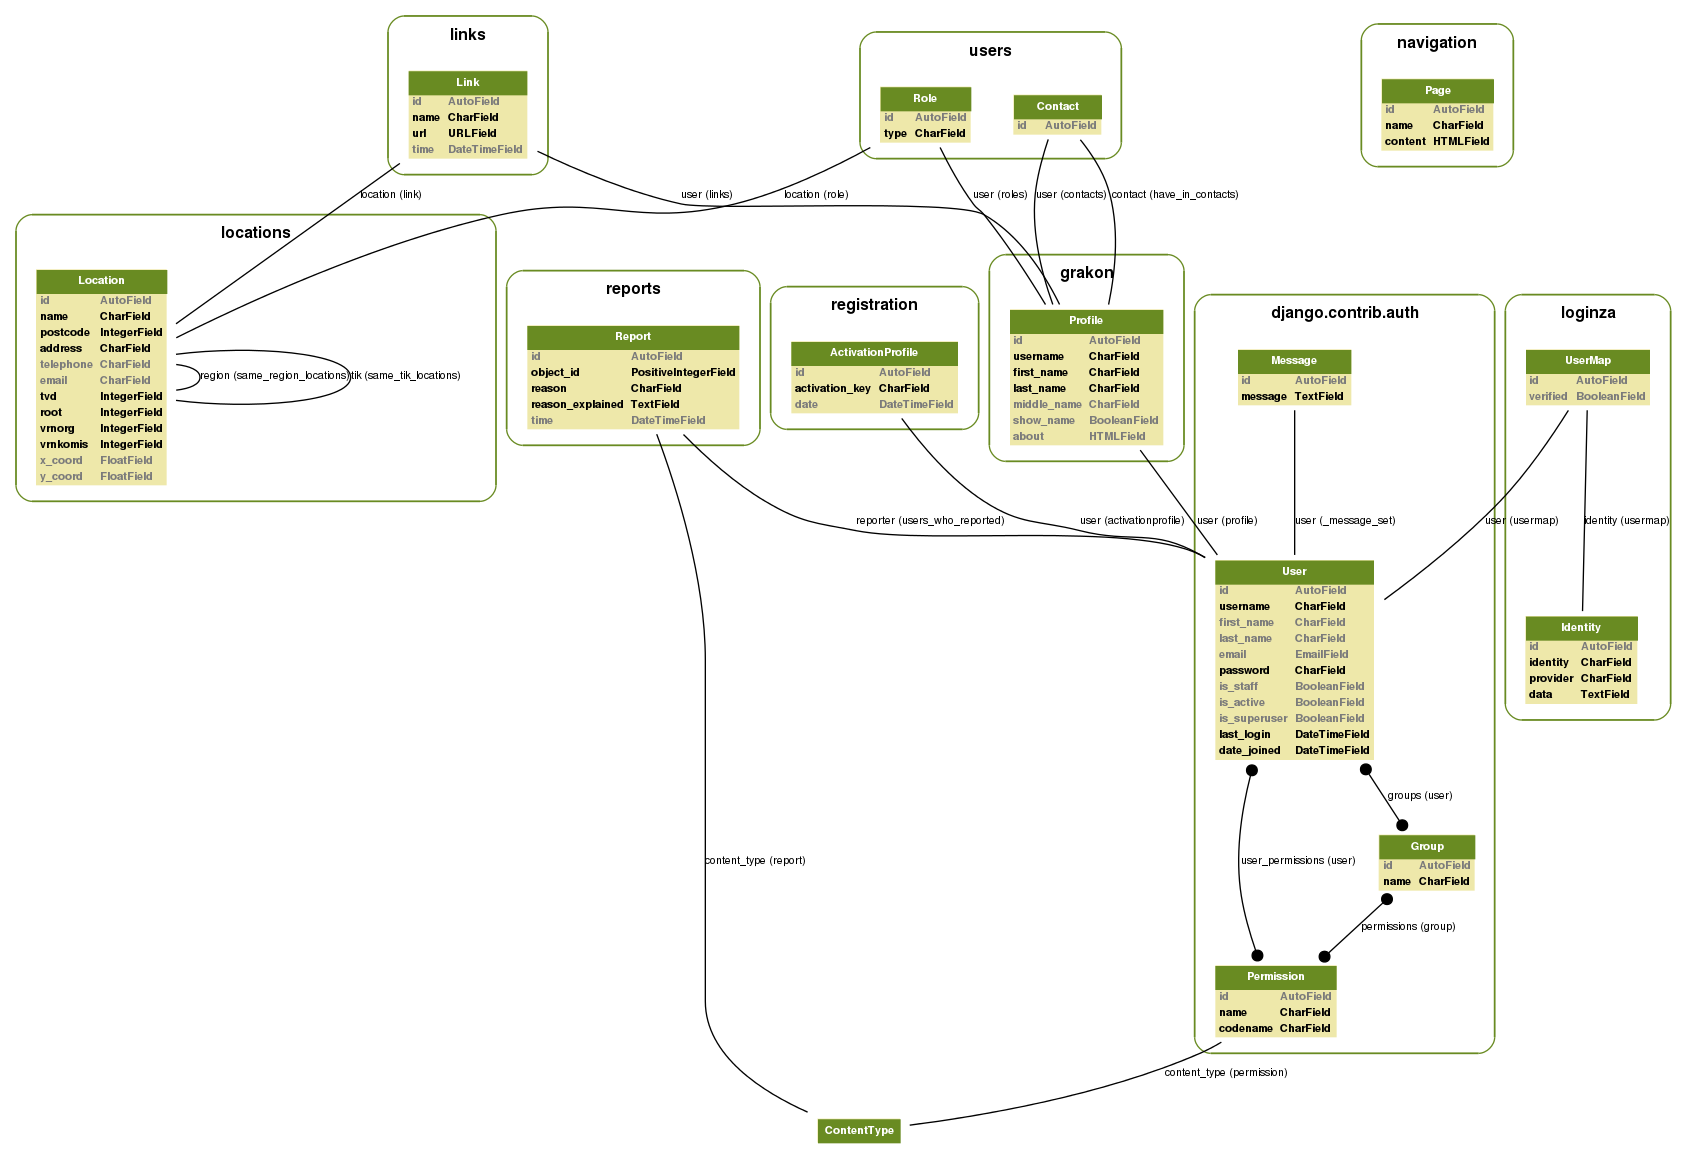
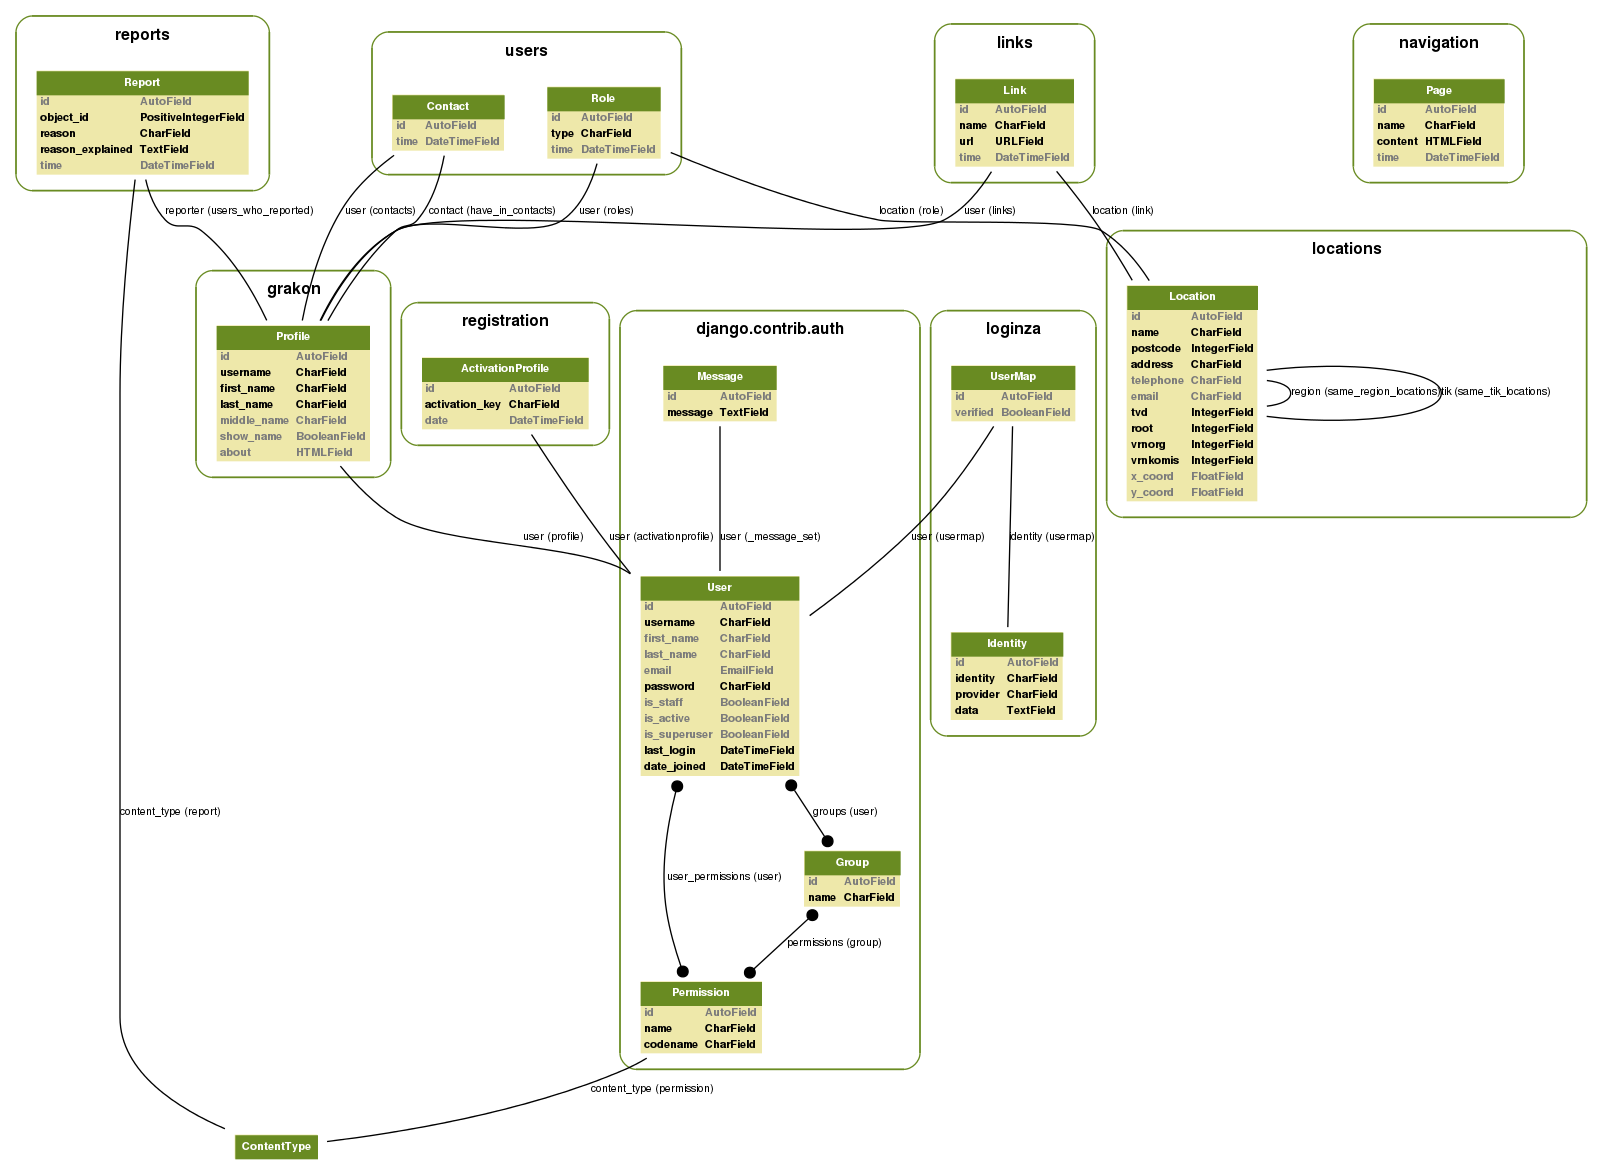
bug fixes

diff --git a/grakon/templates/dialogs/report.html b/grakon/templates/dialogs/report.html
@@ -1,8 +1,8 @@
 {% if user.is_authenticated %}
     <div id="report_dialog">
         <center>
-            Пожаловаться на пользователя <span id="report_dialog_user" class="dialog_user_span"></span>?
-            Пожаловаться на ссылку <a id="report_dialog_link" href=""></a>?
+            <div id="report_msg_user">Пожаловаться на пользователя <span id="report_dialog_user" class="dialog_user_span"></span>?</div>
+            <div id="report_msg_link">Пожаловаться на ссылку <a id="report_dialog_link" href=""></a>?</div>
         </center>
 
         <form id="report_form" method="post" action="{% url report %}">
@@ -19,7 +19,9 @@
                     Подробности: <input type="text" name="reason_explained" size="40" value="" />
                 </div>
             </div>
+            <input type="hidden" name="type" value="" />
             <input type="hidden" name="username" value="" />
+            <input type="hidden" name="link" value="" />
             <input type="hidden" name="location" value="{{ current_location.id }}" />
         </form>
     </div>
@@ -29,13 +31,18 @@
     // Report dialog
     {% if user.is_authenticated %}
         // TODO: choose proper title
-        $("#report_dialog").dialog({width: 650, height: 250, modal: true, title: "Пожаловаться на пользователя",
+        $("#report_dialog").dialog({width: 650, height: 250, modal: true, title: "Пожаловаться",
             buttons: {
                 "Пожаловаться": function(){
                     $.post("{% url report %}", $("#report_form").serialize(), function(data){
                         if (data=="ok"){
-                            //var username = $('#report_user_form input[name="username"]').val();
-                            $("#report_dialog").trigger("report_dialog_event", [username]);
+                            var type = $('#report_form input[name="type"]').val();
+                            var event_data = [];
+                            if (type=="user")
+                                event_data = [$('#report_user_form input[name="username"]').val()];
+                            else if (type=="link")
+                                event_data = [$('#report_user_form input[name="link"]').val()];
+                            $("#report_dialog").trigger("report_dialog_event", event_data);
                             $("#report_dialog").dialog("close");
                             alert("Ваша жалоба будет рассмотрена в ближайшее время");
                         } else
@@ -61,8 +68,14 @@
                 $("#report_reason").append($("<option/>").attr("value", data[0]).html(data[1]));
             });
 
-            //$("#report_dialog_user").text(username);
-            //$('#report_form input[name="username"]').val(username);
+            $('#report_form input[name="type"]').val(type);
+            $("#report_dialog center div").hide();
+            if (type=="user"){
+                $("#report_msg_user").show();
+                $('#report_form input[name="username"]').val(params["username"]);
+            }else if (type=="link")
+                $("#report_msg_link").show();
+
             // TODO: set options for reason
             $("#report_dialog").dialog("open");
             sync_reason_input();

diff --git a/grakon/templates/users/profile_view.html b/grakon/templates/users/profile_view.html
@@ -1,4 +1,4 @@
-{% load elements %}
+<!-- {% load elements %} -->
 
 {% if profile_user.profile.about %}<h4>О себе</h4>{% endif %}
 <div>{{ profile_user.profile.about|safe }}</div>
@@ -46,11 +46,14 @@
 
     {% if user.is_authenticated %}
         <script type="text/javascript">
-            $("#report_dialog").on("report_dialog_event", function(){
+            $("#report_dialog").on("report_dialog_event", function(event, username){
                 // TODO: check that this is profile user
                 $("#is_reported").show();
                 $("#report_user").hide();
             });
+
+            if ($.inArray("{{ profile_user.username }}", REPORTS["user"])!=-1)
+                $("#report_user").hide();
         </script>
     {% endif %}
 
@@ -58,12 +61,6 @@
 
 <h4>Участие в выборах</h4>
 <ul>
-    {% if profile_user == user %}
-    <li>
-        {% button "check" "Записаться в наблюдатели" "become_observer" "" "" %}
-    </li>
-    {% endif %}
-
     <li>
         <span id="voter_path_span">
         {% if roles.voter %}
@@ -74,16 +71,22 @@
             Еще не записан на голосование.
         {% endif %}
         </span>
+    </li>
+</ul>
 
-        {% if profile_user == user %}
+{% if profile_user == user %}
+    <div class="user_actions">
+        <center>
             {% if roles.voter %}
                 {% button "arrowreturnthick-1-e" "Сменить избирательный округ" "become_voter" "" "" %}
             {% else %}
                 {% button "check" "Записаться в избиратели" "become_voter" "" "" %}
             {% endif %}
-        {% endif %}
-    </li>
-</ul>
+
+            {% button "check" "Записаться в наблюдатели" "become_observer" "" "" %}
+        </center>
+    </div>
+{% endif %}
 
 {% if profile_user == user %}
     {% include "dialogs/become_observer.html" %}

diff --git a/grakon/templates/users/profile.html b/grakon/templates/users/profile.html
@@ -3,6 +3,14 @@
 {% load elements %}
 
 {% block left_column %}
+    {% include "dialogs/report.html" %}
+
+    {% include "dialogs/send_message.html" %}
+
+    {% include "dialogs/add_to_contacts.html" %}
+
+    {% include "dialogs/remove_from_contacts.html" %}
+
     <div class="ym-clearfix">
         <div class="side_block_header">
             <h4>Контакты</h4>
@@ -72,14 +80,6 @@
             var list_item = new UserListItem($(this));
         });*/
     </script>
-
-    {% include "dialogs/report.html" %}
-
-    {% include "dialogs/send_message.html" %}
-
-    {% include "dialogs/add_to_contacts.html" %}
-
-    {% include "dialogs/remove_from_contacts.html" %}
 
     {% if user.is_authenticated %}
         <script type="text/javascript">

diff --git a/reports/views.py b/reports/views.py
@@ -1,8 +1,8 @@
 # coding=utf8
-from django.contrib.auth.models import User
 from django.db import IntegrityError
 from django.http import HttpResponse
 
+from grakon.models import Profile
 from links.models import Link
 from reports.models import Report, REASON_TYPES
 
@@ -14,9 +14,11 @@ def report(request):
 
         if report_type == 'user':
             try:
-                item = User.objects.get(username=request.POST.get('username', ''))
-            except User.DoesNotExist:
+                item = Profile.objects.get(username=request.POST.get('username', ''))
+            except Profile.DoesNotExist:
                 return HttpResponse(u'Пользователь не существует')
+
+            already_msg = u'Вы уже пожаловались на этого пользователя'
 
         elif report_type == 'link':
             try:
@@ -25,12 +27,14 @@ def report(request):
                 return HttpResponse(u'Регион не найден')
 
             try:
-                item = Link.objects.get(url=request.POST.get('report_link_radio', ''), location__id=location_id)
+                item = Link.objects.get(url=request.POST.get('link', ''), location__id=location_id)
             except Link.DoesNotExist:
                 return HttpResponse(u'Ссылка не найдена')
 
+            already_msg = u'Вы уже пожаловались на эту ссылку'
+
         else:
-            return HttpResponse()
+            return HttpResponse(u'Ошибка')
 
         reason = request.POST.get('reason')
         if reason not in REASON_TYPES[report_type]:
@@ -44,10 +48,10 @@ def report(request):
             reason_explained = ''
 
         try:
-            Report.objects.create(item=item, user=request.user,
+            Report.objects.create(item=item, reporter=request.user.get_profile(),
                     reason=reason, reason_explained=reason_explained)
         except IntegrityError:
-            return HttpResponse('Вы уже пожаловались на этот элемент')
+            return HttpResponse()
 
         return HttpResponse('ok')
 

diff --git a/reports/models.py b/reports/models.py
@@ -1,9 +1,9 @@
 # coding=utf8
-from django.contrib.auth.models import User
 from django.contrib.contenttypes import generic
 from django.contrib.contenttypes.models import ContentType
 from django.db import models
 
+from grakon.models import Profile
 from links.models import Link
 
 # 'other' reason is added at the end of each block later
@@ -36,7 +36,7 @@ for name in REPORT_REASONS:
     REASON_TYPES[name] = dict(REPORT_REASONS[name])
 
 MODELS = {
-    'user': User,
+    'user': Profile,
     'link': Link,
 }
 
@@ -58,7 +58,7 @@ class ReportManager(models.Manager):
                 queryset = model.objects.filter(id__in=object_ids)
 
                 if name == 'user':
-                    res[name] = queryset.values_list('username', flat=True)
+                    res[name] = [str(username) for username in queryset.values_list('username', flat=True)]
                 elif name == 'link':
                     res[name] = queryset.values_list('location_id', 'url')
             else:
@@ -71,7 +71,7 @@ class Report(models.Model):
     object_id = models.PositiveIntegerField()
     item = generic.GenericForeignKey('content_type', 'object_id')
 
-    reporter = models.ForeignKey(User, related_name='users_who_reported')
+    reporter = models.ForeignKey(Profile, related_name='users_who_reported')
     reason = models.CharField(max_length=15, choices=REASON_CHOICES)
     reason_explained = models.TextField()
     time = models.DateTimeField(auto_now=True)

diff --git a/grakon/context_processors.py b/grakon/context_processors.py
@@ -21,6 +21,7 @@ def user_data(request):
         profile = request.user.get_profile()
         context['my_profile'] = profile
         context['CONTACTS'] = json.dumps(list(profile.contacts.values_list('contact__username', flat=True)))
+        print Report.objects.user_reports(profile), type(Report.objects.user_reports(profile))
         context['REPORTS'] = json.dumps(Report.objects.user_reports(profile))
     else:
         if request.path is not None and request.path not in settings.LOGINZA_AMNESIA_PATHS:

diff --git a/links/views.py b/links/views.py
@@ -23,7 +23,7 @@ def add_link(request):
             return HttpResponse(u'Неправильный формат url')
 
         try:
-            Link.objects.create(location_id=location_id, user=request.user, url=url, name=name)
+            Link.objects.create(location_id=location_id, user=request.user.get_profile(), url=url, name=name)
         except IntegrityError:
             return HttpResponse(u'Такая ссылка уже добавлена')
 

diff --git a/users/views.py b/users/views.py
@@ -18,7 +18,7 @@ def become_voter(request):
 
             try:
                 role, created = Role.objects.get_or_create(
-                        type='voter', user=request.user, defaults={'location_id': location_id})
+                        type='voter', user=request.user.get_profile(), defaults={'location_id': location_id})
             except IntegrityError:
                 return HttpResponse(u'Ошибка базы данных')
 
